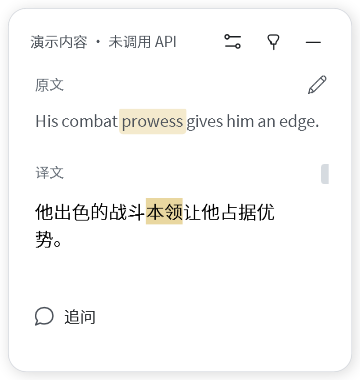
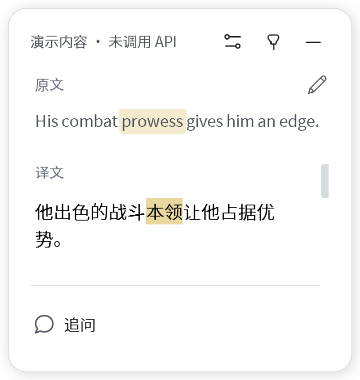
Report successful publication fixtures with a clean exit status

Changed region(s): [[0.1833, 0.8105, 0.275, 0.8684], [0.0917, 0.8105, 0.1528, 0.8974], [0.8861, 0.4632, 0.9167, 0.5211]]

diff --git a/docs/RELEASE-v0.5.0.md b/docs/RELEASE-v0.5.0.md
@@ -11,7 +11,7 @@
 - **同浮窗设置页**：设置与阅读共用窗口；设置按钮再次点击或「返回」恢复原文、译文、学习内容和追问草稿。改善下拉框、空预设、密钥占位及按钮状态。
 - **会话恢复与内部取词**：Leaf 内选中的不同文本直接进入翻译，不模拟复制；可返回根会话。相同原文恢复已有结果，清空未提交草稿后也不重复请求。
 - **安静唤起与准确重试**：空选区或暂时无法取得文字时保留当前状态，不自动进入输入；取消与重试只针对对应操作，迟到响应不覆盖当前会话。
-- **纸面阅读界面**：调整字号、留白、文本对齐、图标和悬停滚轮行为；内嵌思源黑体 Regular / Bold，无需系统安装字体。
+- **纸面阅读界面**：调整字号、留白、文本对齐、图标和悬停滚轮行为，最小浮窗展开追问仍保留可滚动阅读区；内嵌思源黑体 Regular / Bold，无需系统安装字体。
 
 ## 正确性与数据安全
 
@@ -42,7 +42,7 @@ This release brings the improvements since 0.4.1 together: more reliable capture
 - **Settings in the same popup:** toggle settings again or use Return to restore the source, translation, learning content, and follow-up draft. Dropdowns, empty presets, saved-key placeholders, and button states are improved.
 - **Internal capture and session restoration:** selected Leaf text is read directly without simulated copying. Different text opens a child conversation with a return to its root; matching text restores existing results without another request.
 - **Quiet reopening and focused retries:** empty or unavailable selections preserve the current state without automatically entering editing. Cancellation and retry keep operation identity; late responses cannot replace the current conversation.
-- **Clear paper UI:** refined typography, spacing, alignment, icons, and hover scrolling. Source Han Sans SC Regular and Bold are embedded; no font installation is required.
+- **Clear paper UI:** refined typography, spacing, alignment, icons, and hover scrolling. Compact windows retain a scrollable reading area while follow-up input is open. Source Han Sans SC Regular and Bold are embedded; no font installation is required.
 
 Correctness and storage improvements include continuous-script language handling, Unicode-safe truncation, ordered settings commits and recovery, endpoint-bound Windows Credential Manager keys, per-record history recovery, UTF-8 byte limits, background saves, and exit flushing. Deleted history cannot be resurrected by late results. Diagnostic logs contain metadata only. Source publication mirrors additions, changes, and deletions; one version constant drives assembly, manifest, and package versions.
 
